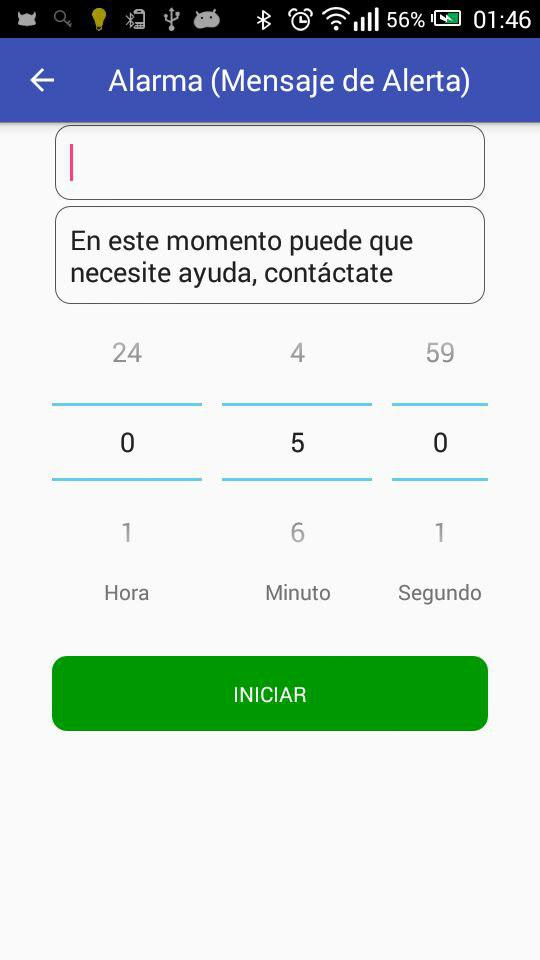
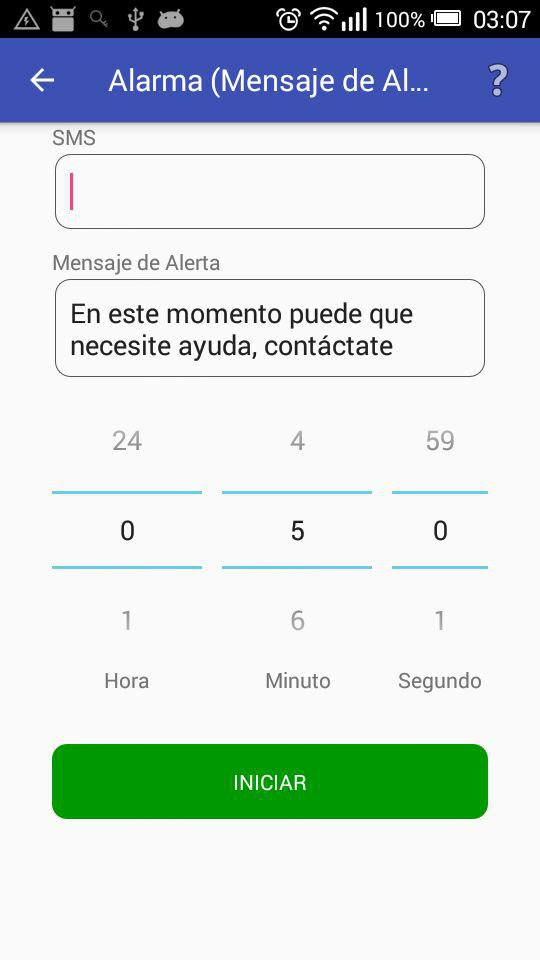
version 0.7

diff --git a/app/src/main/java/pc/javier/seguime/ActividadRegresiva.java b/app/src/main/java/pc/javier/seguime/ActividadRegresiva.java
@@ -4,6 +4,7 @@ import android.content.Intent;
 import android.content.SharedPreferences;
 import android.os.Bundle;
 import android.os.Handler;
+import android.os.Message;
 import android.support.v7.app.AppCompatActivity;
 import android.util.Log;
 import android.view.Menu;
@@ -14,6 +15,8 @@ import android.widget.NumberPicker;
 import android.widget.TextView;
 
 import java.util.Date;
+import java.util.Timer;
+import java.util.TimerTask;
 
 import pc.javier.seguime.interfaz.Aplicacion;
 import pc.javier.seguime.interfaz.GestorCoordenadas;
@@ -21,6 +24,8 @@ import pc.javier.seguime.interfaz.GestorDatos;
 import pc.javier.seguime.utilidades.Boton;
 import pc.javier.seguime.utilidades.FechaHora;
 import pc.javier.seguime.utilidades.Parametro;
+
+import static java.lang.Math.round;
 
 
 /**
@@ -80,6 +85,7 @@ public class ActividadRegresiva extends AppCompatActivity {
     protected void onResume () {
         super.onResume();
 
+
         boton();
 
 
@@ -91,18 +97,8 @@ public class ActividadRegresiva extends AppCompatActivity {
         if (alarma == "")
             return;
 
-        /*
-        // si el alarma llego al final se activa
-        long intervalo = FechaHora.intervalo(alarma);
-        if (intervalo<=0)
-            activar();
 
-    */
 
-        // muestra en la pantalla el tiempo restante
-        long intervalo = FechaHora.intervalo(alarma);
-        tempHora.setValue((int)intervalo/60/60);
-        tempMinuto.setValue((int)intervalo/60);
 
 
 
@@ -110,14 +106,13 @@ public class ActividadRegresiva extends AppCompatActivity {
         mensajeLog(alarma + ">" + FechaHora.cantidadMinutos(alarma));
         mensajeLog("Intervalo: " + FechaHora.intervalo(alarma));
 
-        if (Parametro.telefono == null)
-            return;
-        if (Parametro.telefono.equals(""))
-            return;
-        tvSms.setText(Parametro.telefono);
+        if (Parametro.telefono != null)
+            if (!Parametro.telefono.equals(""))
+                tvSms.setText(Parametro.telefono);
         Parametro.telefono = "";
 
 
+        temporizadorAlarmaIniciar();
     }
 
     public void clickBoton (View view) {
@@ -156,14 +151,23 @@ public class ActividadRegresiva extends AppCompatActivity {
 
 
     private void detener(){
+
+
         // borra el alarma de preferencias
         Aplicacion.alarma("");
 
         GestorDatos borrarAlarma = new GestorDatos();
         borrarAlarma.enviarAlarma();
+
+        temporizadorAlarmaDetener();
+        boton();
     }
 
     private void iniciar(){
+
+        if (tvTexto.getText().equals(""))
+            tvTexto.setText(R.string.alarmamensaje);
+
         Aplicacion.alarmaServidor("");
         Aplicacion.preferenciaCadena("sms", tvSms.getText().toString());
         Aplicacion.preferenciaCadena("alarmatexto", tvTexto.getText().toString());
@@ -171,7 +175,10 @@ public class ActividadRegresiva extends AppCompatActivity {
         long segundos = (tempMinuto.getValue()*60) + (tempHora.getValue() *60*60) + tempSegundo.getValue();
         String alarma = FechaHora.suma(String.valueOf(segundos));
         Aplicacion.alarma(alarma);
-        Parametro.aplicacion.iniciarServicio();
+        Parametro.aplicacion.ReiniciarServicio();
+
+        temporizadorAlarmaIniciar();
+        boton();
     }
 
 
@@ -212,6 +219,60 @@ public class ActividadRegresiva extends AppCompatActivity {
 
 
 
+
+
+
+    Timer temporizadorAlarma;
+
+
+
+//  temporizador local, solo se usa para mostrar en pantalla el tiempo restante, NO ES LA ALARMA
+    private void temporizadorAlarmaIniciar () {
+
+temporizadorAlarma = new Timer();
+
+
+        temporizadorAlarma.scheduleAtFixedRate(
+                new TimerTask() {
+                    @Override
+                    public void run() {
+                        Contar();
+                    }
+                }, 1, 1000 );
+    }
+
+
+    private void Contar (){
+
+        if (!estaActivo())
+            temporizadorAlarmaDetener();
+
+
+
+        Message mensaje = new Message();
+        Bundle dato = new Bundle();
+
+        dato.putString("vista", "alarma");
+        mensaje.setData(dato);
+        // no funciona
+        handler.sendMessage(mensaje);
+
+
+    }
+
+
+
+    private void temporizadorAlarmaDetener () {
+        if (temporizadorAlarma != null)
+        temporizadorAlarma.cancel();
+    }
+
+
+    @Override
+    protected void onDestroy() {
+        super.onDestroy();
+        temporizadorAlarmaDetener();
+    }
 
     private void mensajeLog (String texto) {
         Log.d("Actividad Registro", texto);

diff --git a/app/src/main/java/pc/javier/seguime/control/Servicio.java b/app/src/main/java/pc/javier/seguime/control/Servicio.java
@@ -19,6 +19,9 @@ import pc.javier.seguime.interfaz.BD;
 import pc.javier.seguime.interfaz.Coordenada;
 import pc.javier.seguime.interfaz.GestorCoordenadas;
 import pc.javier.seguime.interfaz.GestorDatos;
+import pc.javier.seguime.utilidades.FechaHora;
+
+import static java.lang.Math.round;
 
 
 /**
@@ -40,6 +43,8 @@ public class Servicio extends   Service  {
 
     private Timer temporizadorAlarma;
     private GestorDatos alarma;
+
+    private  String alarmaLimite;
 
     @Nullable
     @Override
@@ -129,6 +134,9 @@ public class Servicio extends   Service  {
         // inicia temporizador de alarmas
         temporizadorAlarmaIniciar();
 
+
+
+
         mensajeLog ( "INICIADO");
     }
 
@@ -184,7 +192,28 @@ public class Servicio extends   Service  {
 
 
     private void temporizadorAlarmaIniciar () {
+        // intervalo de tiempo en el que se activa la alarma
+        alarmaLimite = preferencias.getString("alarma", "");
+        temporizadorAlarma = new Timer();
 
+        long intervalo = FechaHora.intervalo(alarmaLimite);
+        int hora = (int) round(intervalo/60/60);
+        int minuto = (int) round(intervalo/60)%60;
+        int segundo = (int) intervalo%60;
+
+
+        int limite =(int) intervalo;
+        if (alarmaLimite.equals(""))
+            return;
+        try {
+            limite = Integer.parseInt(alarmaLimite);
+        } catch (Exception e) {}
+
+        if (limite <= 0)
+            limite = 1;
+
+        mensajeLog("SERVICIO - ALARMA limite -> " + alarmaLimite);
+        mensajeLog("SERVICIO - ALARMA limite -> " + limite);
         temporizadorAlarma.scheduleAtFixedRate(
                 new TimerTask() {
                     @Override
@@ -193,7 +222,7 @@ public class Servicio extends   Service  {
 
 
                     }
-                }, 3000, 1000 * 1); // cada diez segundos
+                }, 1, 1000 * limite);
     }
 
     private void temporizadorAlarmaDetener () {
@@ -201,6 +230,7 @@ public class Servicio extends   Service  {
     }
 
 
+    // oomprueba si la alarma esta *ACTIVADA*
     private void comprobarAlarma() {
         mensajeLog("comprobando alarma");
         if (Aplicacion.alarmaExiste())

diff --git a/app/src/main/java/pc/javier/seguime/ActividadOpciones.java b/app/src/main/java/pc/javier/seguime/ActividadOpciones.java
@@ -2,6 +2,7 @@ package pc.javier.seguime;
 
 import android.content.Intent;
 import android.content.SharedPreferences;
+import android.net.Uri;
 import android.preference.PreferenceManager;
 import android.support.v7.app.AppCompatActivity;
 import android.os.Bundle;
@@ -147,10 +148,27 @@ public class ActividadOpciones extends AppCompatActivity {
 
 
     public void ayuda (MenuItem item) {
-        Intent i = new Intent(this, ActividadAyudaOpciones.class);
-        startActivity(i);
+
+        switch (item.getItemId()) {
+            case R.id.menu_ayuda:
+                Intent i = new Intent(this, ActividadAyudaOpciones.class);
+                startActivity(i);
+                break;
+
+            case R.id.menu_bot:
+
+                navegar("http://t.me/seguimebot");
+
+                break;
+        }
     }
 
+
+    private void navegar (String url){
+        Intent i = new Intent(Intent.ACTION_VIEW);
+        i.setData(Uri.parse(url));
+        startActivity(i);
+    }
 
 /*
     @Override

diff --git a/app/src/main/java/pc/javier/seguime/MainActivity.java b/app/src/main/java/pc/javier/seguime/MainActivity.java
@@ -144,7 +144,7 @@ public class MainActivity extends AppCompatActivity {
             ((Button) boton).setTextColor(Color.GRAY);
             estado.setText(R.string.txt_servicio_activo);
             estado.setTextColor(Color.GREEN);
-            //pantalla.setBackgroundResource(R.drawable.camino);
+            // pantalla.setBackgroundResource(R.drawable.camino);
         } else {
             ((Button) boton).setText(getText(R.string.activar_aplicacion));
             ((Button) boton).setBackgroundColor(Color.TRANSPARENT);
@@ -152,7 +152,7 @@ public class MainActivity extends AppCompatActivity {
 
             estado.setText(R.string.txt_servicio_inactivo);
             estado.setTextColor(Color.RED);
-            pantalla.setBackgroundResource(R.drawable.caminoblancoynegro);
+            // pantalla.setBackgroundResource(R.drawable.caminoazul);
 
         }
 

diff --git a/app/src/main/java/pc/javier/seguime/handler/Comandos.java b/app/src/main/java/pc/javier/seguime/handler/Comandos.java
@@ -146,6 +146,10 @@ public class Comandos implements Handler.Callback {
 
 
             case "alarma":
+                if (Aplicacion.actividadRegresiva == null)
+                    return;;
+                if (Aplicacion.actividadRegresiva.findViewById(R.id.temporizador_hora) == null)
+                    return;;
 
                 long intervalo = FechaHora.intervalo(Aplicacion.preferenciaCadena("alarma"));
                 NumberPicker tempHora= (NumberPicker) Aplicacion.actividadRegresiva.findViewById(R.id.temporizador_hora);

diff --git a/app/src/main/java/pc/javier/seguime/interfaz/Aplicacion.java b/app/src/main/java/pc/javier/seguime/interfaz/Aplicacion.java
@@ -116,6 +116,11 @@ public class Aplicacion {
     }
 
 
+    public  void ReiniciarServicio () {
+        if (servicioActivo())
+            contexto.stopService(servicio);
+        iniciarServicio();
+    }
 
 
     // verifica si el servicio esta activo

diff --git a/app/src/main/java/pc/javier/seguime/interfaz/GestorDatos.java b/app/src/main/java/pc/javier/seguime/interfaz/GestorDatos.java
@@ -5,7 +5,8 @@ import android.os.Handler;
 import android.util.Log;
 
 /**
- * Created by Usuario Javier on 1 abr 2018.
+ *  Javier on 1 abr 2018.
+ *  maneja datos que deben ser enviados al servidor
  */
 
 public class GestorDatos {

diff --git a/CHANGELOG.md b/CHANGELOG.md
@@ -1,5 +1,10 @@
 # Seguime 
 
+### [0.7] - 23 Junio 2018
+* Modificado: Funcionamiento interno del Temporizador (Optimización, ahorro de batería).
+* Modificado: Detalles mínimos en la interfaz.
+* Agregado: Acceso al bot de Telegram.
+
 ### [0.6] - 6 Mayo 2018
 * Agregado: Ayuda del temporizador.
 * Modificado: Idiomas.

diff --git a/README.md b/README.md
@@ -15,7 +15,6 @@ no con fines de seguridad.
 
 [<img src="https://f-droid.org/badge/get-it-on-es.png" alt="Disponible en F-Droid" height="80">](https://f-droid.org/app/pc.javier.seguime)
 
-
 # Donaciones
 
 Seguime es un proyecto para localizar un dispositivo con sistema operativo Android 
